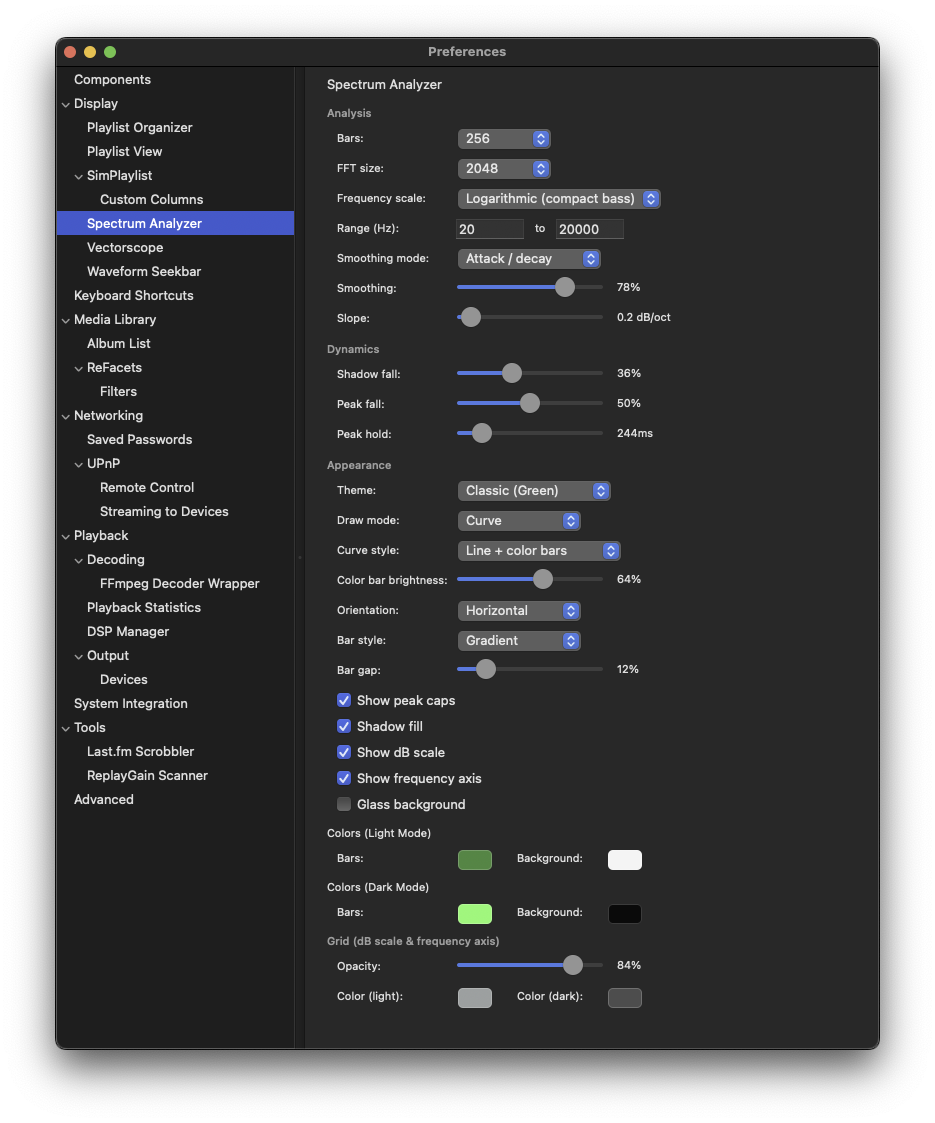
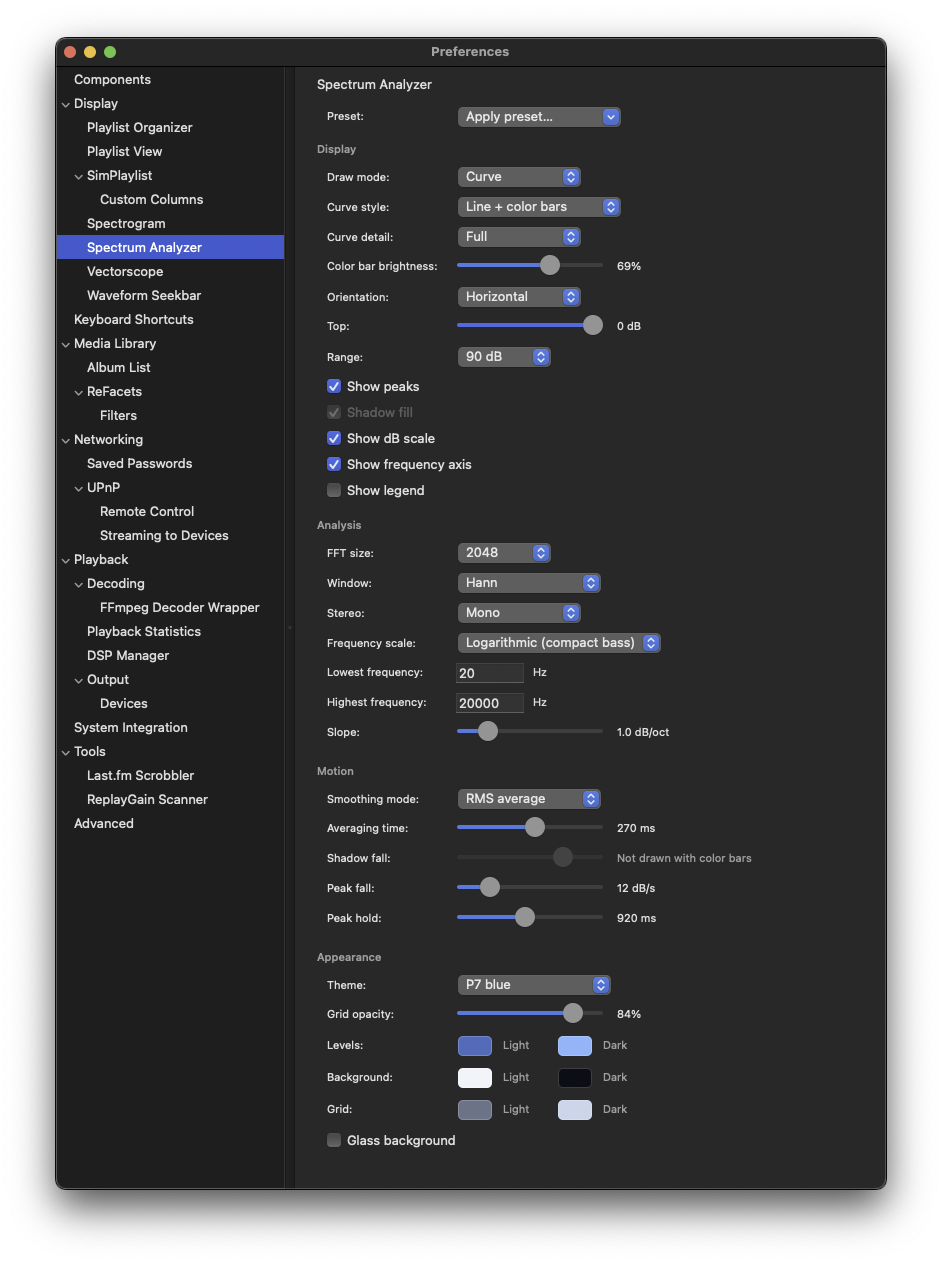
docs(spectrum): new README screenshots; fix cut-off preferences notes
- Curve and bars screenshots cropped to the analyzer panel; new
  settings page screenshot; feature list updated for the own FFT,
  curve detail, mid + side, level range, peak line, hover readout,
  phosphor themes and presets.
- Preferences page is 500 pt wide (was 460), so a disabled slider's
  note ("Not drawn with color bars") fits its column.

diff --git a/extensions/foo_jl_spectrum_mac/src/UI/SpectrumPreferences.mm b/extensions/foo_jl_spectrum_mac/src/UI/SpectrumPreferences.mm
@@ -28,7 +28,7 @@ using namespace spectrum_config;
 
 namespace {
 
-constexpr CGFloat kPageWidth = 460;
+constexpr CGFloat kPageWidth = 500;   // fits the preferences pane, with room for the longest note
 constexpr CGFloat kLabelX = 30;
 constexpr CGFloat kControlX = 160;
 constexpr CGFloat kValueX = kControlX + 160;   // slider value / note

diff --git a/README.md b/README.md
@@ -77,24 +77,24 @@ Audio visualization seekbar with real-time waveform display and visual effects. 
 
 ### Spectrum Analyzer
 
-Real-time spectrum analyzer panel, built on foobar2000's own FFT visualisation stream.
+Real-time spectrum analyzer panel, running its own FFT on the audio from foobar2000's visualisation stream.
 
-| Curve with color bars | Bars | Settings |
-|-----------------------|------|----------|
-| ![Spectrum Analyzer in curve mode with color bars](docs/images/spectrum-curve.png) | ![Spectrum Analyzer in bars mode](docs/images/spectrum-bars.png) | ![Spectrum Settings](docs/images/spectrum-settings.png) |
+| Curve and bars | Settings |
+|----------------|----------|
+| ![Spectrum Analyzer in curve mode with color bars](docs/images/spectrum-curve.png)<br>![Spectrum Analyzer in bars mode](docs/images/spectrum-bars.png) | ![Spectrum Settings](docs/images/spectrum-settings.png) |
 
 **Features:**
-- Bars or curve display, horizontal or vertical orientation
-- Curve styles: filled, line, color bars (stripes that brighten where a frequency is louder), or line + color bars
-- Logarithmic, compact-bass logarithmic or linear frequency scale with adjustable range (default 20 Hz – 20 kHz)
-- Attack/decay or RMS-average smoothing, plus an optional spectral slope (0–6 dB/octave)
+- Curve or bars, horizontal or vertical, edge to edge in the panel
+- Curve styles: filled, line, color bars (stripes that brighten where a frequency is louder), or line + color bars; a strong live line with a fainter peak line
+- Curve detail from every FFT bin to 1/24-1/3 octave smoothing; Hann or Blackman-Harris window, FFT size 1024-32768
+- Mid + side mode draws the stereo difference as a second line
+- Logarithmic, compact-bass logarithmic or linear frequency scale with adjustable range (default 20 Hz - 20 kHz)
+- Fixed dB window (Top and Range), optional spectral slope (0-6 dB/octave)
+- RMS-average or attack/decay smoothing; peak line that holds, then falls at a steady dB/s rate; slow-falling shadow fill
+- Hover readout with frequency, nearest note and level
+- Color themes, including P31 green, P3 amber, P4 white and P7 blue phosphors, with separate light/dark colors and optional glass background
+- Factory presets (Classic bars, RTA 1/3 octave, Fine detail, Mid + side) and a settings page that shows only what applies
 - Full-screen view via double-click or the context menu
-- Falling peak line and slow-decaying shadow fill
-- dB guides and frequency gridlines with adjustable opacity
-- Bar styles (solid, gradient, spectrum hue) and color presets (Nord, Dracula, Gruvbox, Solarized, Tokyo Night, ...) with separate light/dark colors and optional glass background
-- Auto bar count that fits the panel (up to 2048 bars), or fixed presets
-- Per-bar frequency labels; click and hold to read the exact frequency under the cursor
-- Tunable FFT size, smoothing and peak/shadow fall speeds
 
 ---
 
